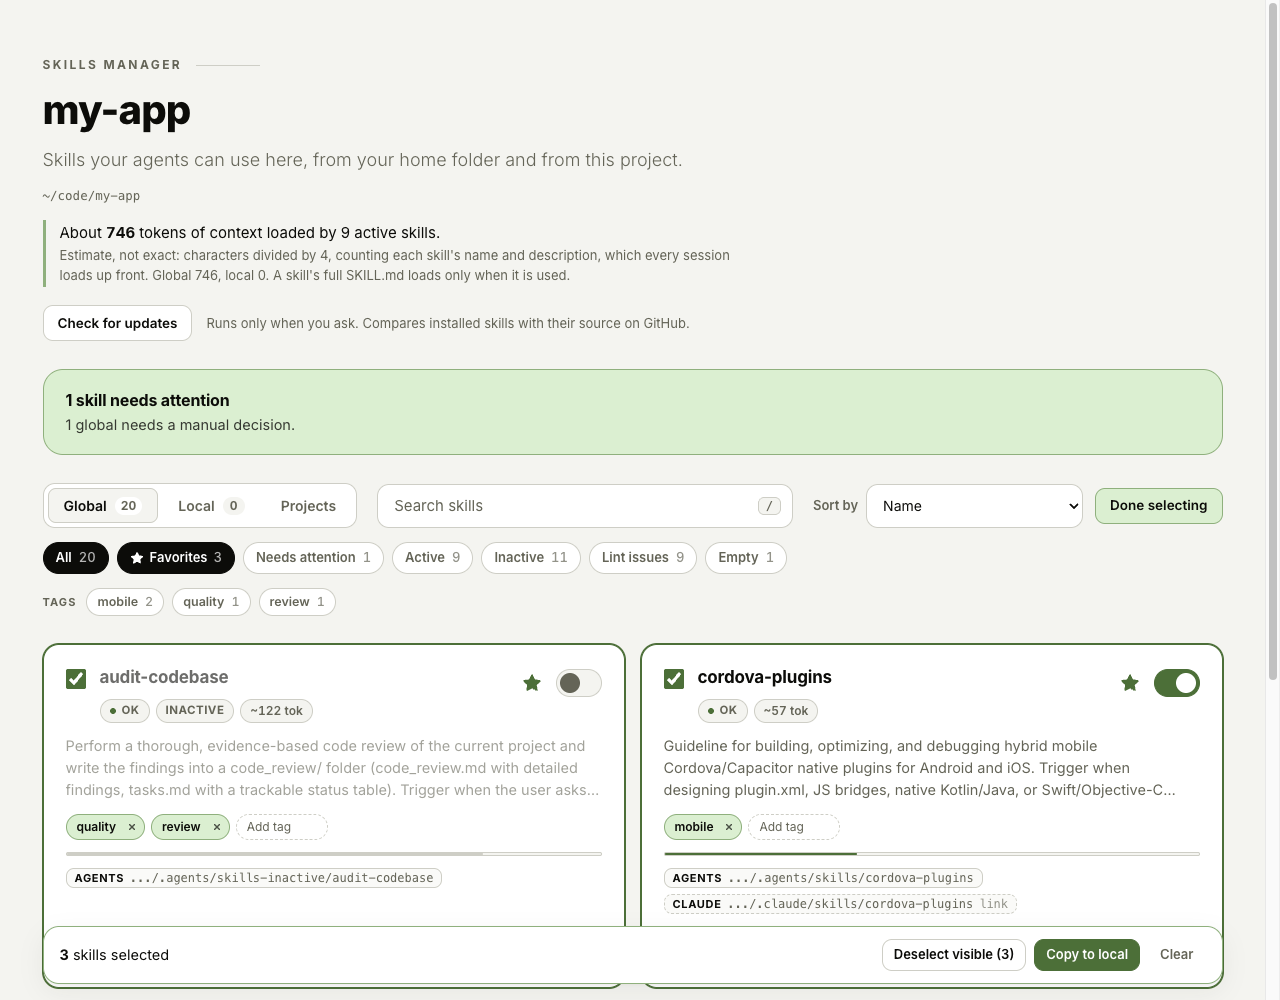
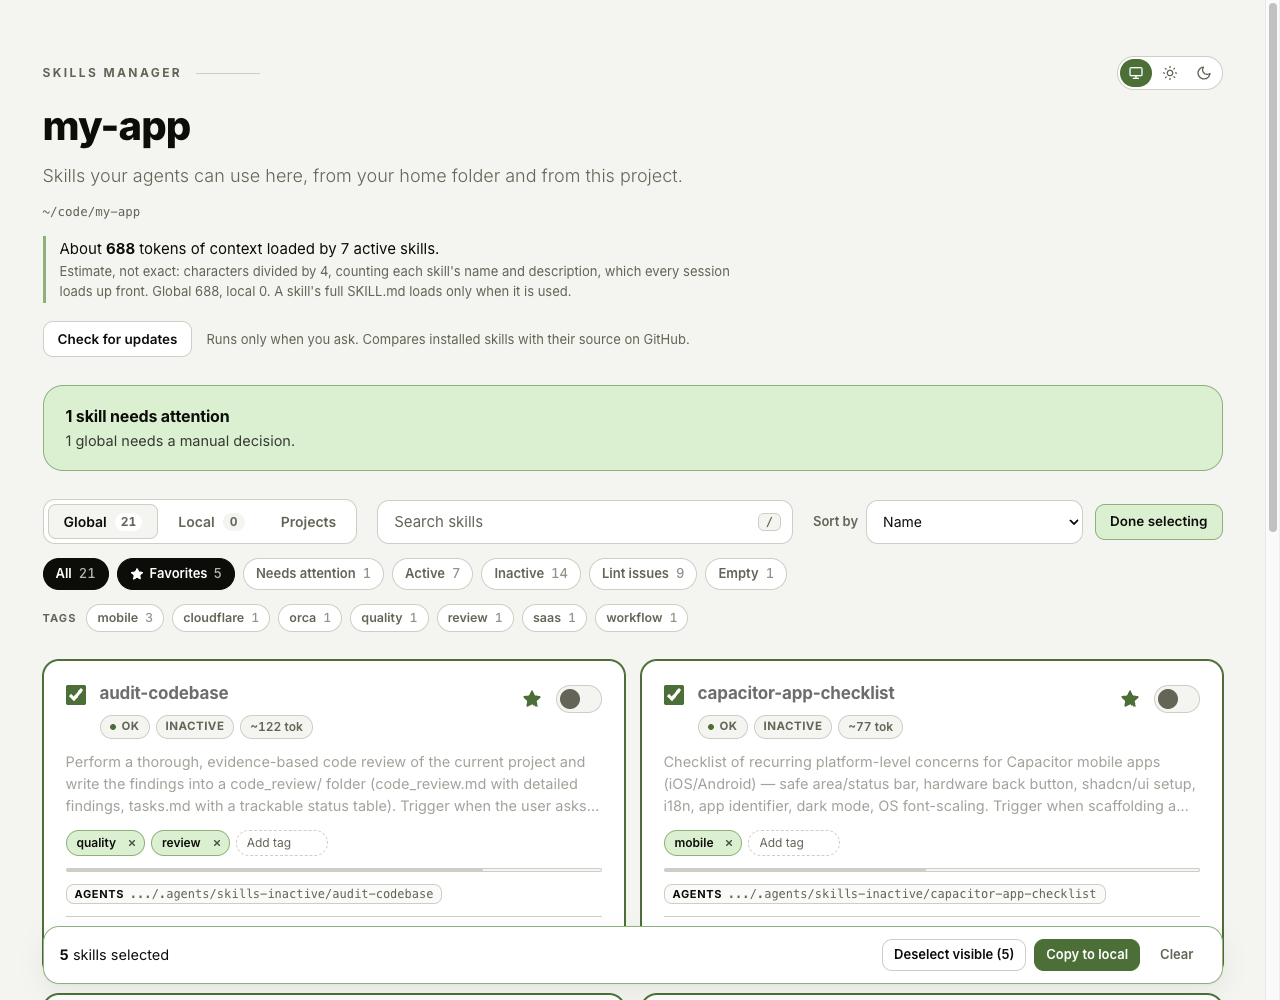
Refresh README screenshots with the current UI (theme toggle, stars, tags, selection)

diff --git a/README.md b/README.md
@@ -80,6 +80,8 @@ Running `skm` with no arguments starts the server and opens your browser. There 
 - switch the **theme** (System, Light or Dark) with the toggle in the top right corner; your choice is remembered in the browser;
 - mark skills as **favorites**, add **tags**, filter by them, and copy several skills into the project at once.
 
+![skm in dark mode](docs/img/screenshot-dark.png)
+
 Options: `--port <n>` picks the port (if it is taken, the next free one is used) and
 `--no-open` skips opening the browser.
 
